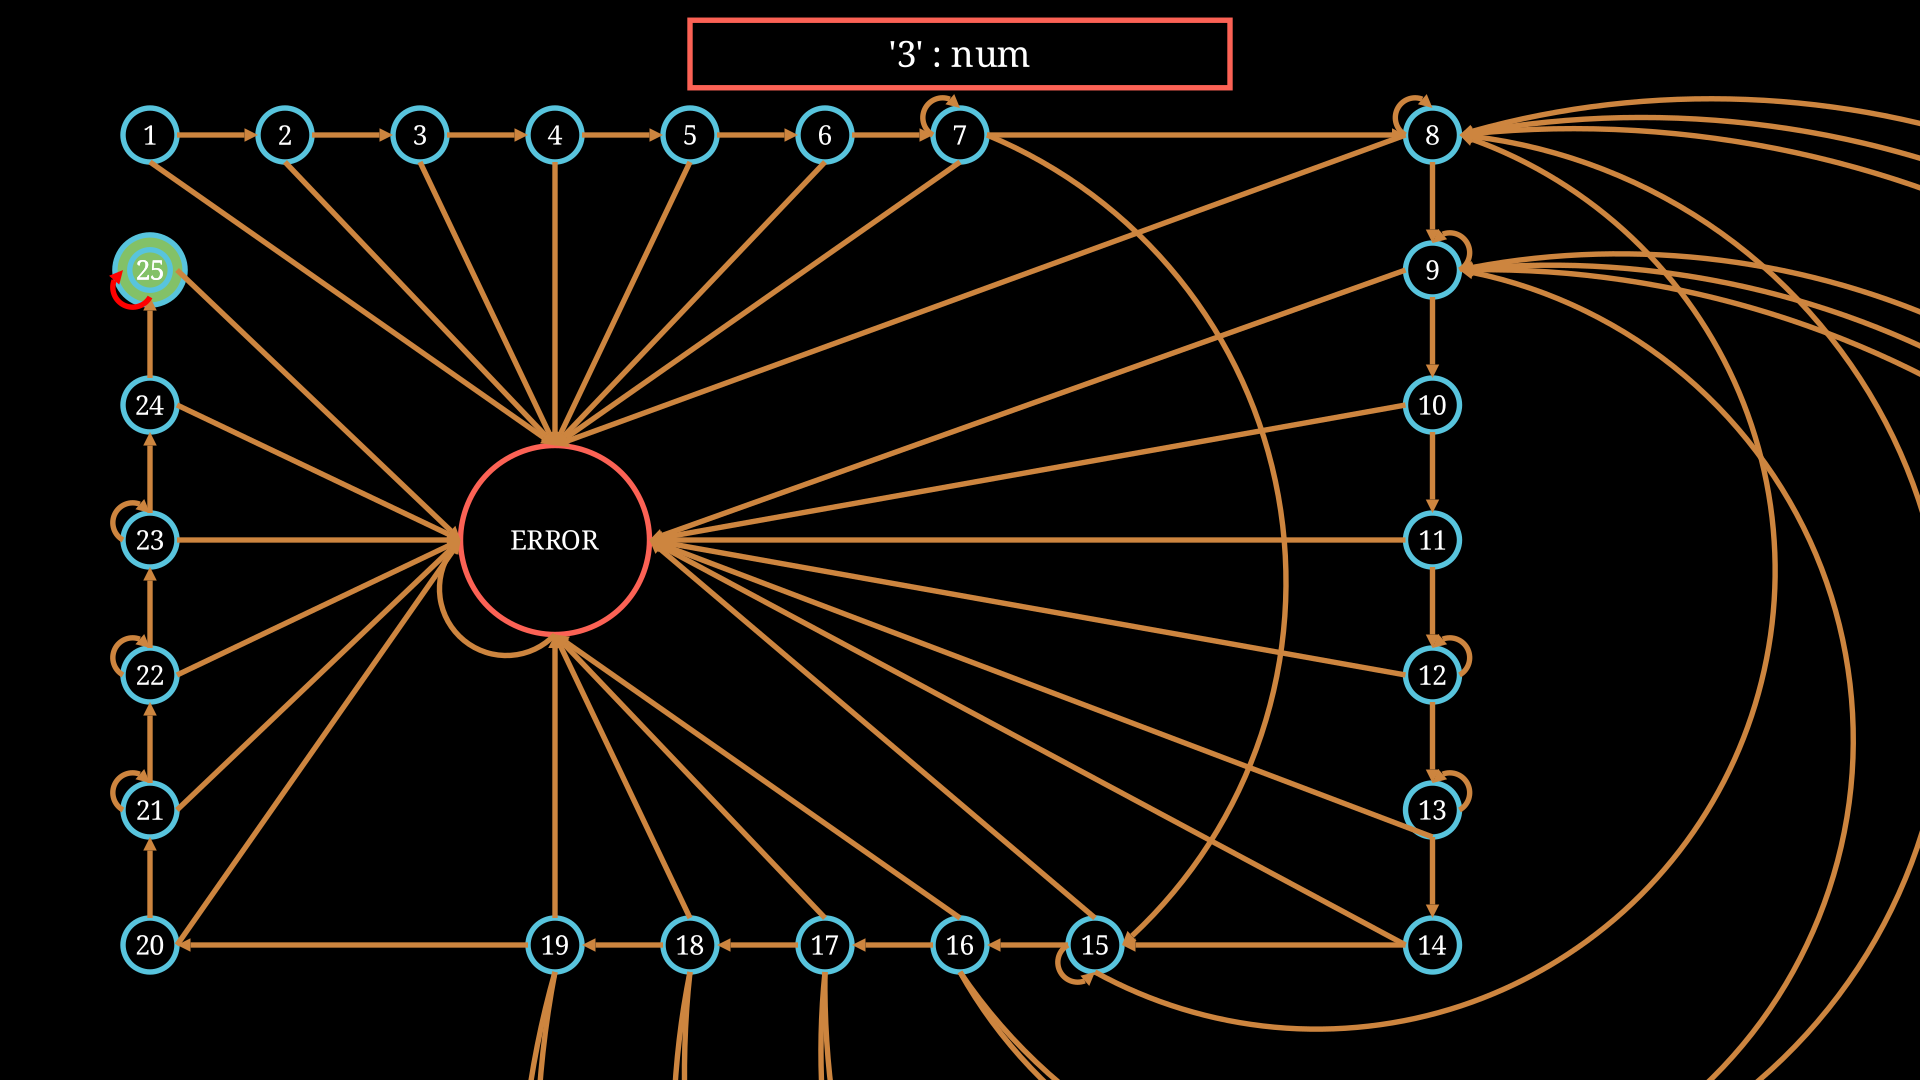
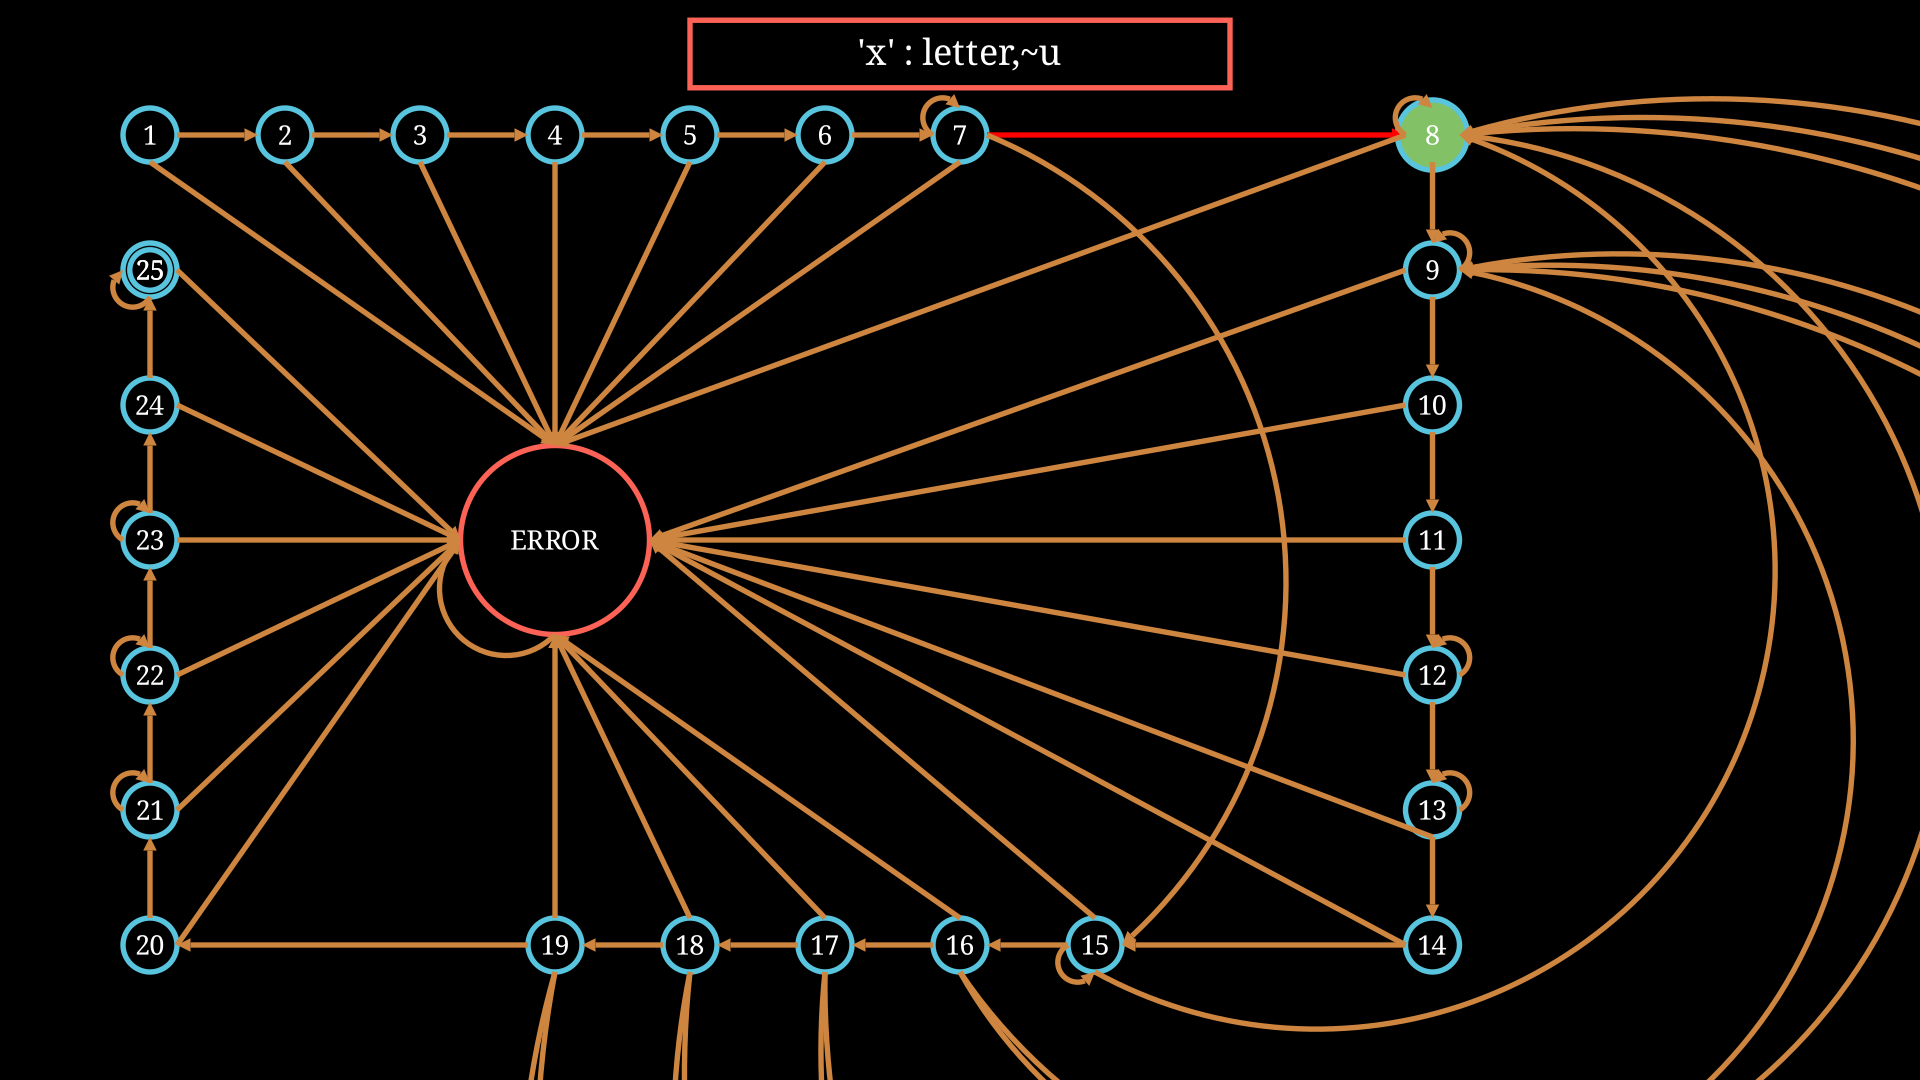
Added GUI

Changed region(s): [[0.5312, 0.0917, 0.7812, 0.1528], [0.4375, 0.0306, 0.5625, 0.0611], [0.0312, 0.2139, 0.0938, 0.3056]]

diff --git a/Tiny-compiler.py b/Tiny-compiler.py
@@ -1,4 +1,5 @@
 from manim import *
+import sys
 
 class State():
     def __init__(self, id, circle, state_text):
@@ -167,9 +168,9 @@ class Tiny(Scene):
         draw_states(states)
         draw_arrows(read_arrows(states, edges))
 
-        file_name = input("file name: ")
+        file_name = "input.txt"
         with open(file_name, 'r') as file:
             data = file.read()
-            print(repr(data))
+            # print(repr(data))
             play_animation(data)
 
